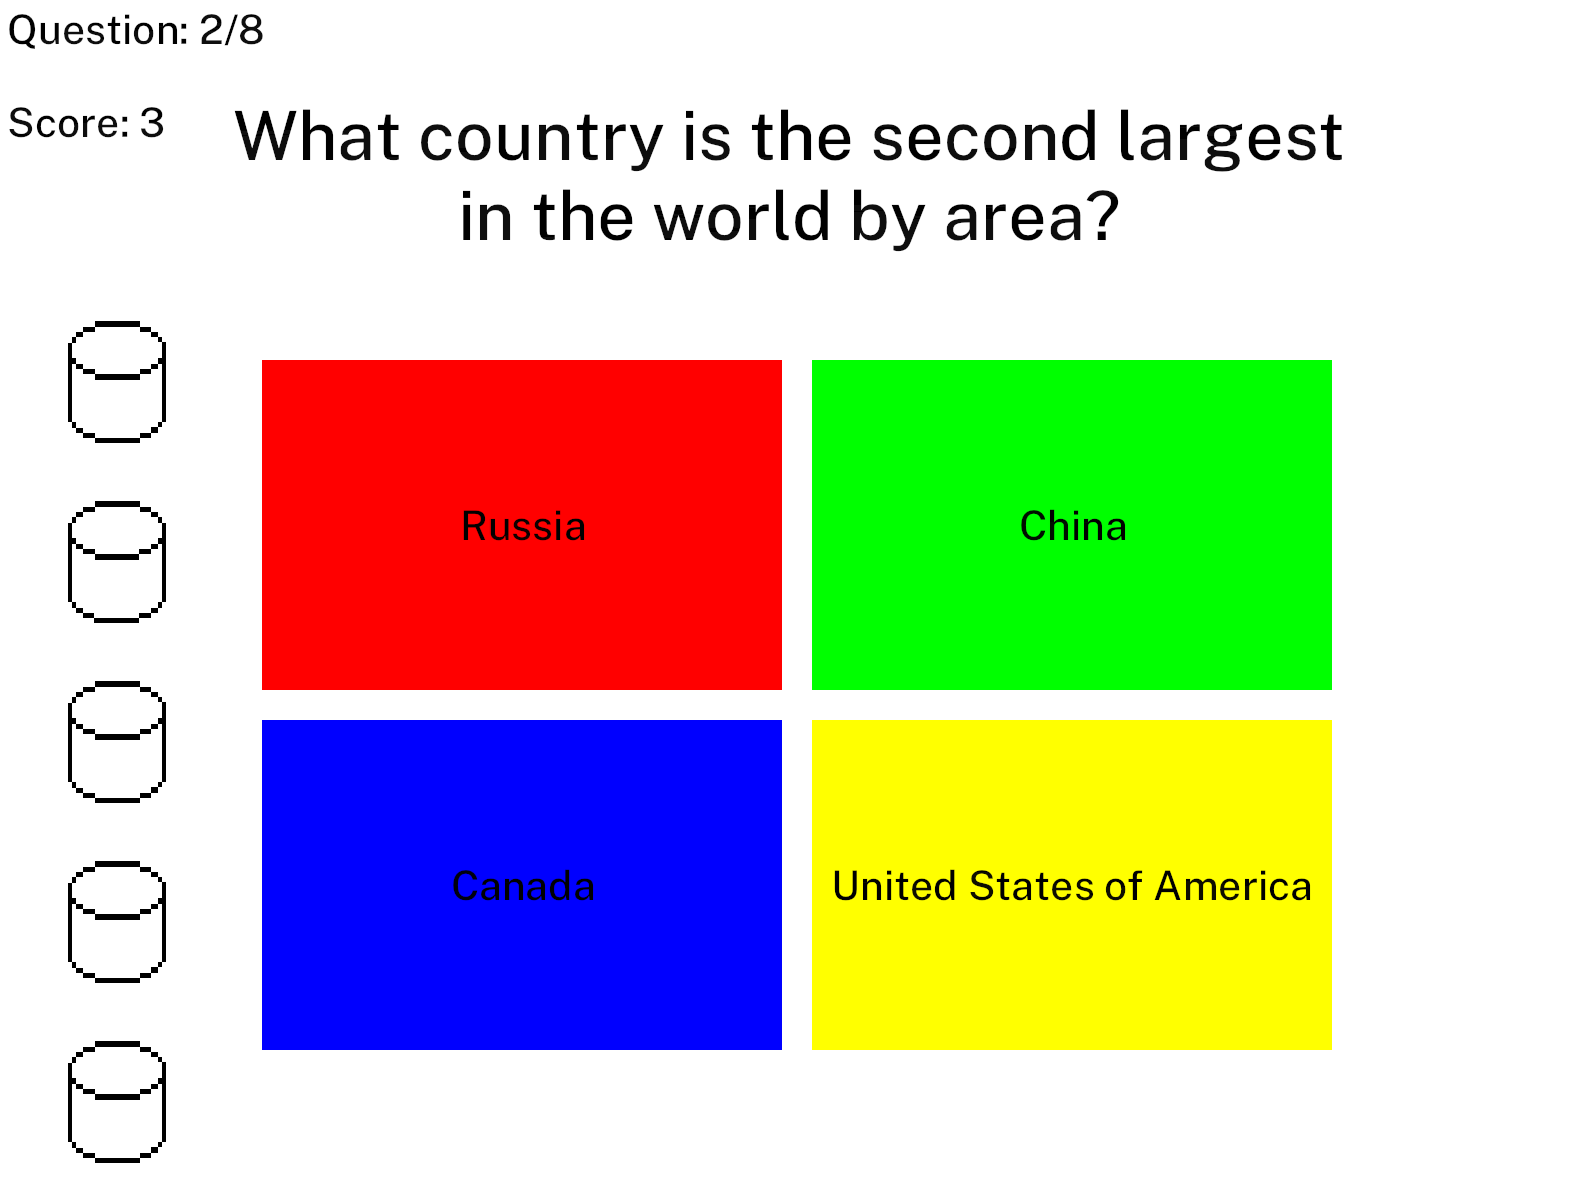
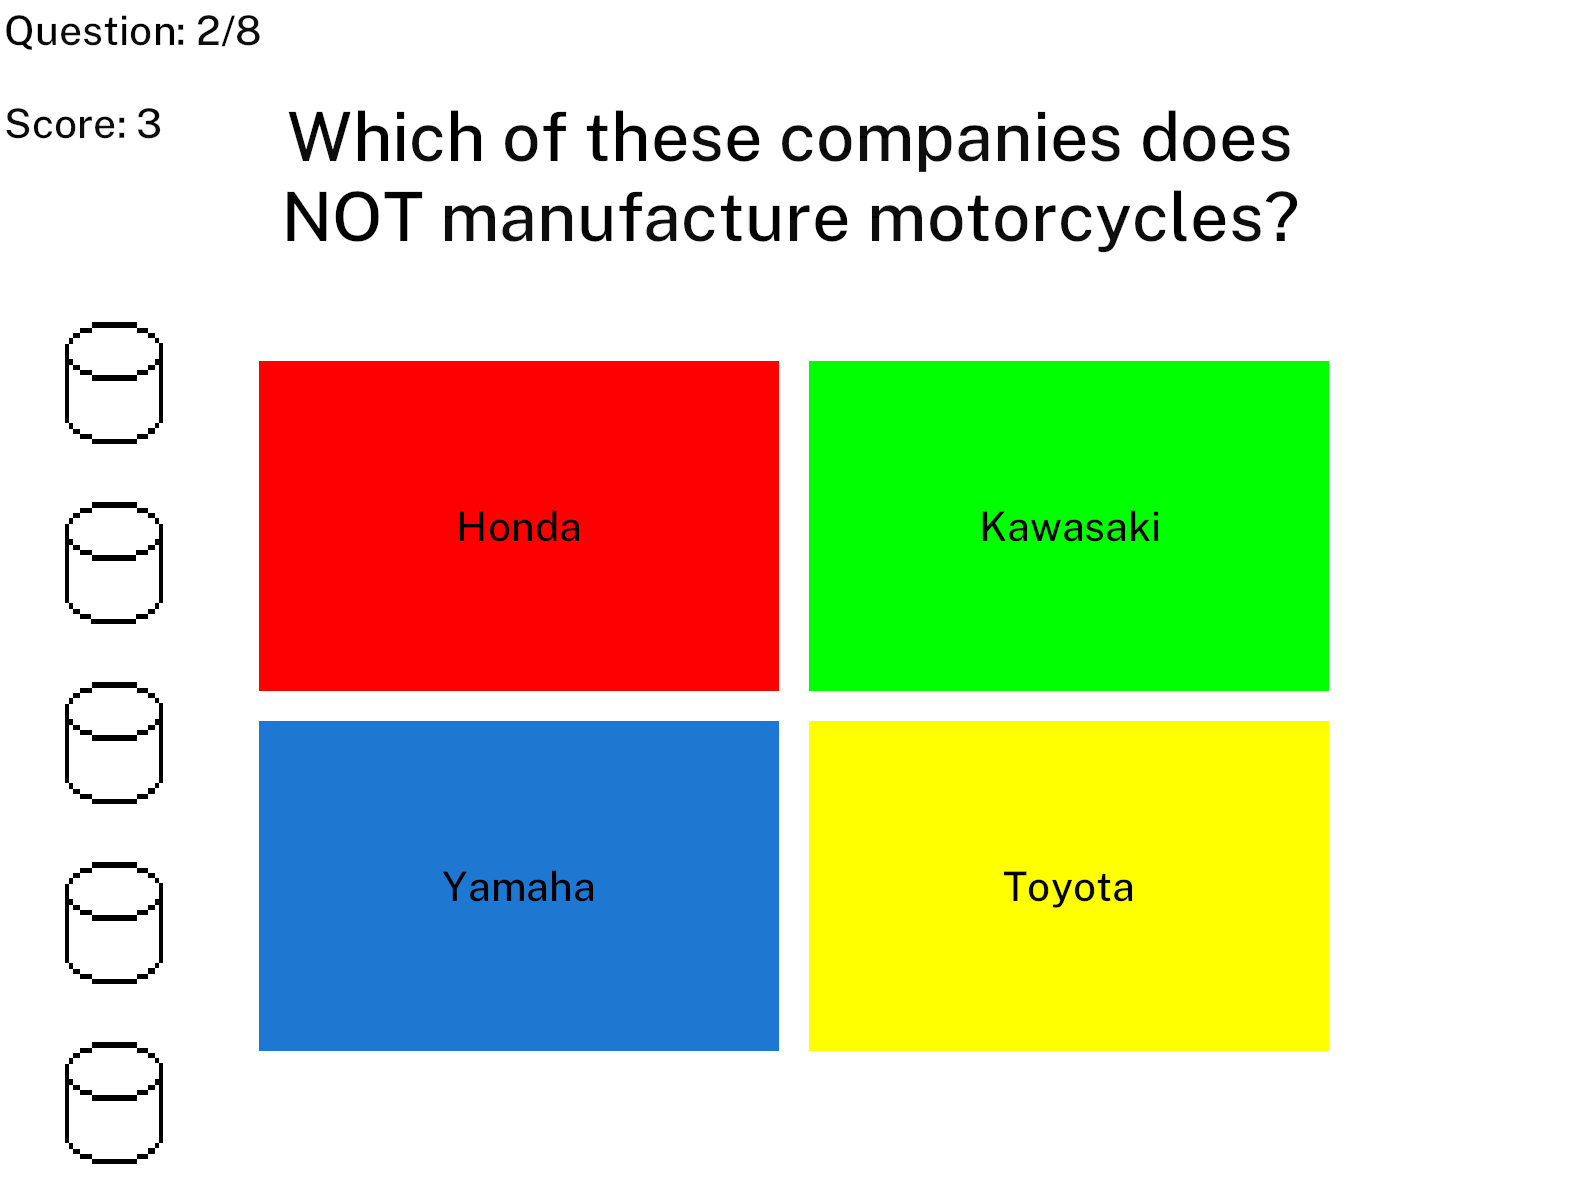
fiddled with blue answer color

diff --git a/src/game/answer.rs b/src/game/answer.rs
@@ -115,7 +115,7 @@ fn spawn_answerblock(answer_slots: Query<(Entity, &GlobalTransform, &Node),
                      mut cmds: Commands,
 ) {
     let palette = [AnswerColor(Color::RED), AnswerColor(Color::GREEN), 
-                   AnswerColor(Color::BLUE), AnswerColor(Color::YELLOW)];
+                   AnswerColor(Color::rgb(0.117, 0.470, 0.823)), AnswerColor(Color::YELLOW)];
 
     for (i, (slot_id, answer_gt, answer_node)) in answer_slots.iter().enumerate() {
         // Mega scuffed, but only way around my poor programming and Bevy's poor
